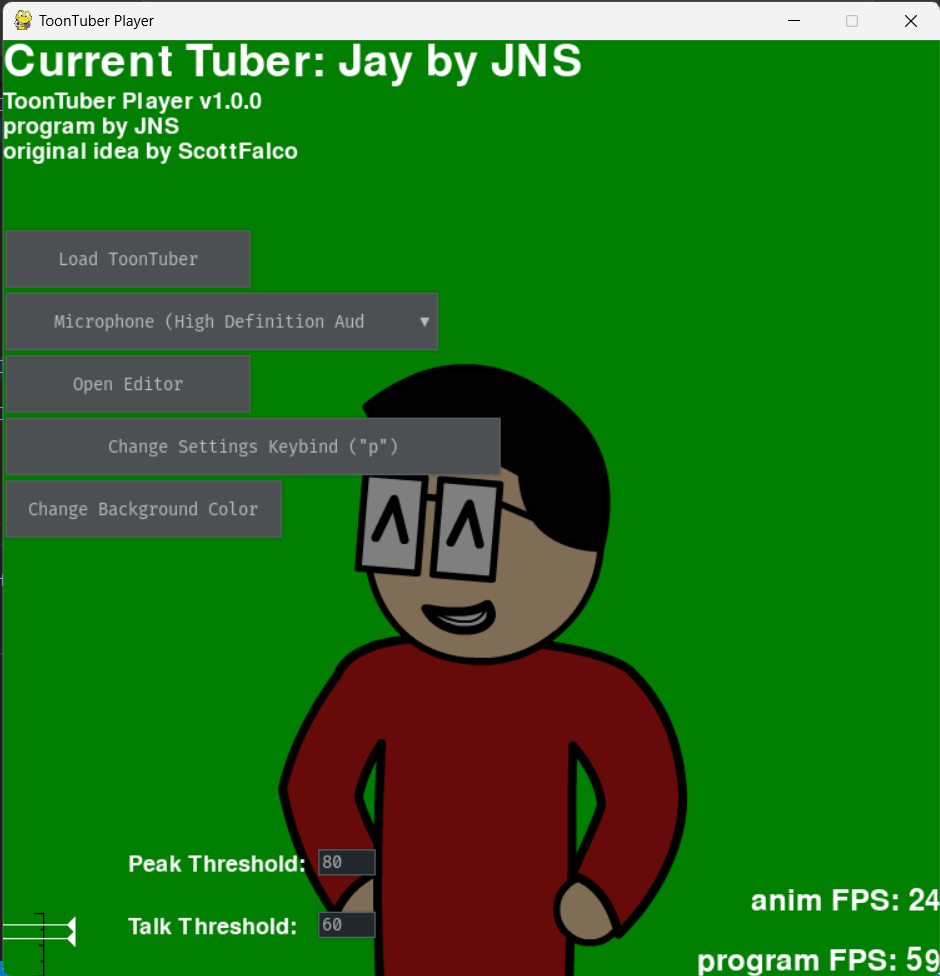
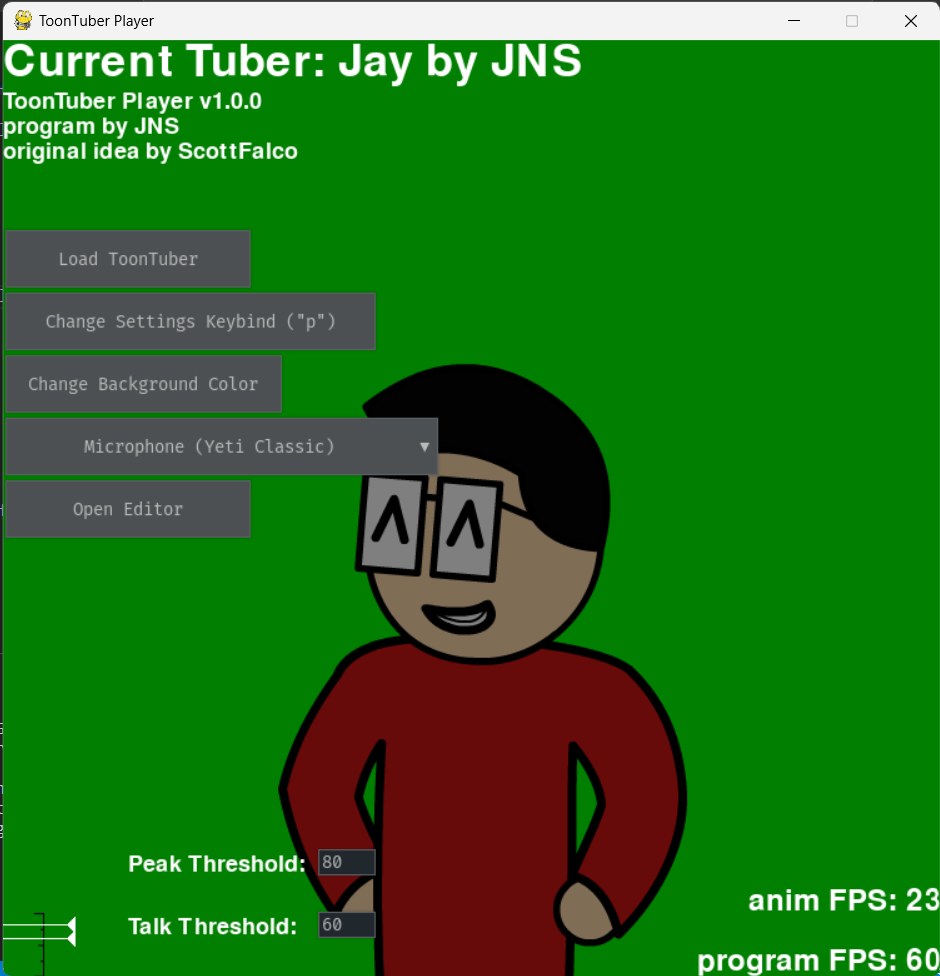
bug fixes

diff --git a/toontuber.py b/toontuber.py
@@ -1051,22 +1051,27 @@ opening_options = [
 
 debugPrint("Tuber loading functions created.\nSetting up final GUI elements and functions...")
 
-openEditorButton = pygame_gui.elements.UIButton(relative_rect=pygame.Rect((0, 250), (200, 50)),
-                                             text='Open Editor',
-                                             manager=settings_UImanager)
-
 loadToonTuberButton = pygame_gui.elements.UIButton(relative_rect=pygame.Rect((0, 150), (200, 50)),
                                              text='Load ToonTuber',
                                              manager=settings_UImanager)
 
-changeSettingsKeybindButton = pygame_gui.elements.UIButton(relative_rect=pygame.Rect((0, 300), (400, 50)),
+changeSettingsKeybindButton = pygame_gui.elements.UIButton(relative_rect=pygame.Rect((0, 200), (300, 50)),
                                                 text=f'Change Settings Keybind (\"{settingsKeybindName}\")',
+                                                manager=settings_UImanager)
+
+changeBGColorButton = pygame_gui.elements.UIButton(relative_rect=pygame.Rect((0, 250), (225, 50)),
+                                                text='Change Background Color',
                                                 manager=settings_UImanager)
 
 audioDeviceDropdown = pygame_gui.elements.UIDropDownMenu(options_list=audioDeviceNames,
                                                         starting_option=lastAudioDevice,
-                                                        relative_rect=pygame.Rect((0, 200), (350, 50)),
+                                                        relative_rect=pygame.Rect((0, 300), (350, 50)),
                                                         manager=settings_UImanager)
+
+openEditorButton = pygame_gui.elements.UIButton(relative_rect=pygame.Rect((0, 350), (200, 50)),
+                                             text='Open Editor',
+                                             manager=settings_UImanager)
+
 
 talk_textEntry = pygame_gui.elements.UITextEntryLine(
     pygame.Rect((250, height-55), (50, 25)),
@@ -1084,9 +1089,6 @@ peak_textEntry = pygame_gui.elements.UITextEntryLine(
 peak_textEntry.set_allowed_characters('numbers')
 peak_textEntry.set_text(str(peakThreshold))
 
-changeBGColorButton = pygame_gui.elements.UIButton(relative_rect=pygame.Rect((0, 350), (225, 50)),
-                                                text='Change Background Color',
-                                                manager=settings_UImanager)
 
 
 # text_settings = UniFont.render("SETTINGS", True, BLACK)
@@ -1247,7 +1249,7 @@ while running:
             audioDeviceDropdown.kill()
             audioDeviceDropdown = pygame_gui.elements.UIDropDownMenu(options_list=audioDeviceNames,
                                                                     starting_option=lastAudioDevice,
-                                                                    relative_rect=pygame.Rect((0, 200), (350, 50)),
+                                                                    relative_rect=pygame.Rect((0, 300), (350, 50)),
                                                                     manager=settings_UImanager)
         if event.type == pygame_gui.UI_BUTTON_PRESSED:
             if event.ui_element == loadToonTuberButton:
